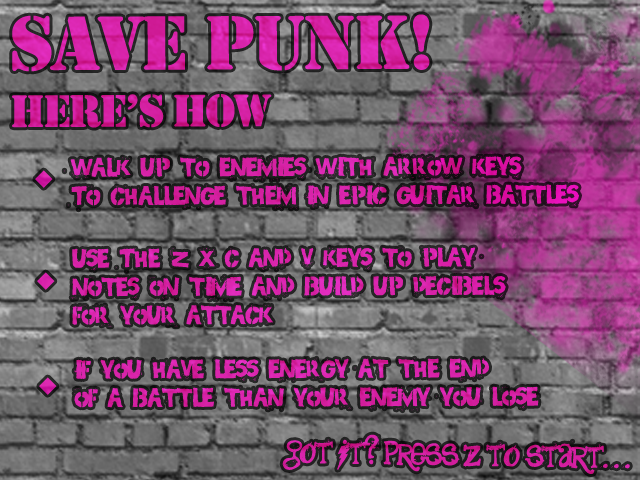
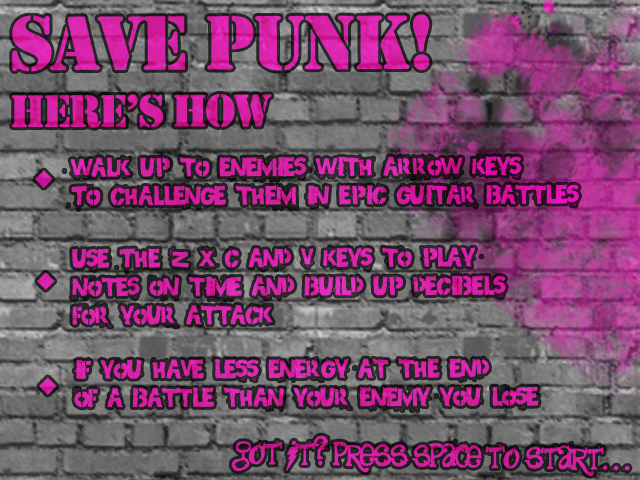
Tutorial, win, and lose screens

Changed region(s): [[0.3438, 0.875, 1.0, 1.0]]

diff --git a/game/init.js b/game/init.js
@@ -22,11 +22,19 @@ var ALESTest = Klass.extend({
         debug.log('C pressed');
         battle_system.input('c');
       },
-      Z: function() {
-        console.log('hi');
+      SPACE: function() {
         if (g_screen === 'intro') {
+          g_screen = 'tutorial';
+        } else if (g_screen === 'tutorial') {
           g_screen = null;
         }
+      },
+      W: function() {
+        console.log("W");
+        the_game.win();
+      },
+      L: function() {
+        the_game.lose();
       }
     });
 
@@ -60,20 +68,72 @@ var ALESTest = Klass.extend({
 
     // Intro screen
     the_game.intro_screen = new Screen({ aki_attributes: {
+      id:      'intro_screen',
       group:   'fights',
       tileset: 'intro_screen'
     }});
     var aki = the_game.intro_screen.getAkiObject();
+
     aki.blit = function() {
       if (g_screen === 'intro') {
-        akiba.magic.standard_blit.apply(aki);
+        akiba.magic.standard_blit.call(aki);
       }
     }
     gbox.addObject(aki);
+
+    // Tutorials screen
+    the_game.tutorial_screen = new Screen({ aki_attributes: {
+      id:      'tutorial_screen',
+      group:   'fights',
+      tileset: 'tutorial_screen'
+    }});
+    var aki_2 = the_game.tutorial_screen.getAkiObject();
+    aki_2.blit = function() {
+      if (g_screen === 'tutorial') {
+        akiba.magic.standard_blit.call(aki_2);
+      }
+    }
+    gbox.addObject(aki_2);
+
+    // Win screen
+    the_game.win_screen = new Screen({ aki_attributes: {
+      id:      'win_screen',
+      group:   'fights',
+      tileset: 'win_screen'
+    }});
+    var aki_3 = the_game.win_screen.getAkiObject();
+    aki_3.blit = function() {
+      if (g_screen === 'win') {
+        akiba.magic.standard_blit.call(aki_3);
+      }
+    }
+    gbox.addObject(aki_3);
+
+    // Lose screen
+    the_game.lose_screen = new Screen({ aki_attributes: {
+      id:      'lose_screen',
+      group:   'fights',
+      tileset: 'lose_screen'
+    }});
+    var aki_4 = the_game.lose_screen.getAkiObject();
+    aki_4.blit = function() {
+      if (g_screen === 'lose') {
+        akiba.magic.standard_blit.call(aki_4);
+      }
+    }
+    gbox.addObject(aki_4);
   },
 
   startBattle: function() {
     console.log('Battle started!');
     this.player.startBattle();
+  },
+
+  win: function() {
+    g_screen = 'win';
+  },
+  
+  lose: function() {
+    g_screen = 'lose';
   }
 });

diff --git a/game/assets.js b/game/assets.js
@@ -16,6 +16,7 @@ function getImageResources(){
       ['city_background',      'images/city_background.png'],
       ['fight_background',     'images/poserbs.png'],
       ['screen_splash',        'images/splash.png'],
+      ['screen_tutorial',      'images/tutorial.png'],
       ['screen_win',           'images/win.png'],
       ['screen_lose',          'images/lose.png'],
       ['background_tilesheet', 'images/bg1.png']
@@ -146,6 +147,33 @@ function getTileResources(){
     {
       id:      'intro_screen',
       image:   'screen_splash',
+      tilew:   640,
+      tileh:   480,
+      tilerow: 1,
+      gapx:    0,
+      gapy:    0
+    },
+    {
+      id:      'tutorial_screen',
+      image:   'screen_tutorial',
+      tilew:   640,
+      tileh:   480,
+      tilerow: 1,
+      gapx:    0,
+      gapy:    0
+    },
+    {
+      id:      'win_screen',
+      image:   'screen_win',
+      tilew:   640,
+      tileh:   480,
+      tilerow: 1,
+      gapx:    0,
+      gapy:    0
+    },
+    {
+      id:      'lose_screen',
+      image:   'screen_lose',
       tilew:   640,
       tileh:   480,
       tilerow: 1,

diff --git a/lib/akiba.js b/lib/akiba.js
@@ -76,7 +76,7 @@ akiba = {
 
     watchKeys: function(mapping) {
       $(window).keydown(function(event) {
-        // console.log(event.which);
+        console.log(event.which);
         var key = akiba.codeToKey[event.which];
         mapping[key] && mapping[key]();
       });
@@ -205,6 +205,8 @@ akiba.keyCode = _($.ui.keyCode).extend({
   X: 88,
   C: 67,
   V: 86,
+  W: 87,
+  L: 76
 });
 
 akiba.codeToKey = _.reduce(akiba.keyCode, function(memo, keyCode, keyLeter) { memo[keyCode] = keyLeter; return memo; }, {});

diff --git a/game/fights.js b/game/fights.js
@@ -12,7 +12,7 @@ var Screen = Klass.extend({
   },
 
   getAkiObject: function() {
-    var obj = _(akiba.actors.top_down_object).extend(this.aki_attributes);
+    var obj = _(_(akiba.actors.top_down_object).clone()).extend(this.aki_attributes);
 
     this.aki_obj = obj;
     return obj;
